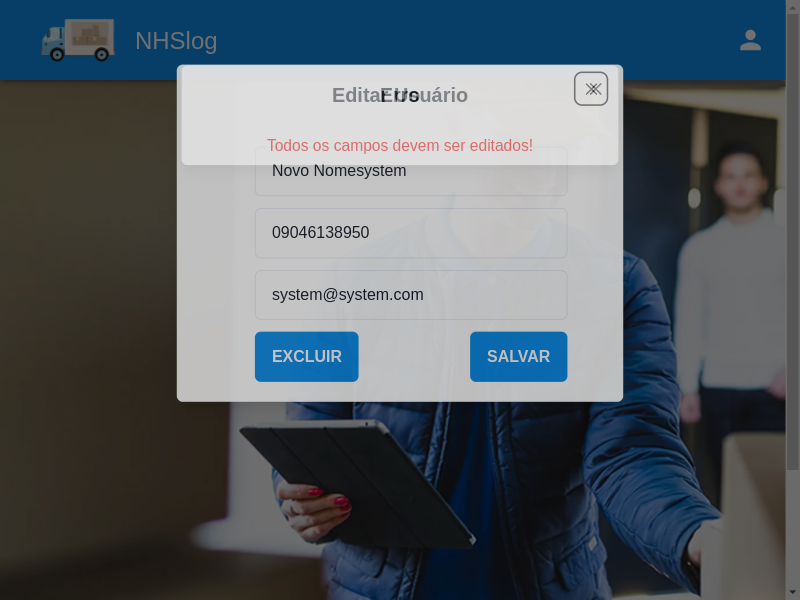
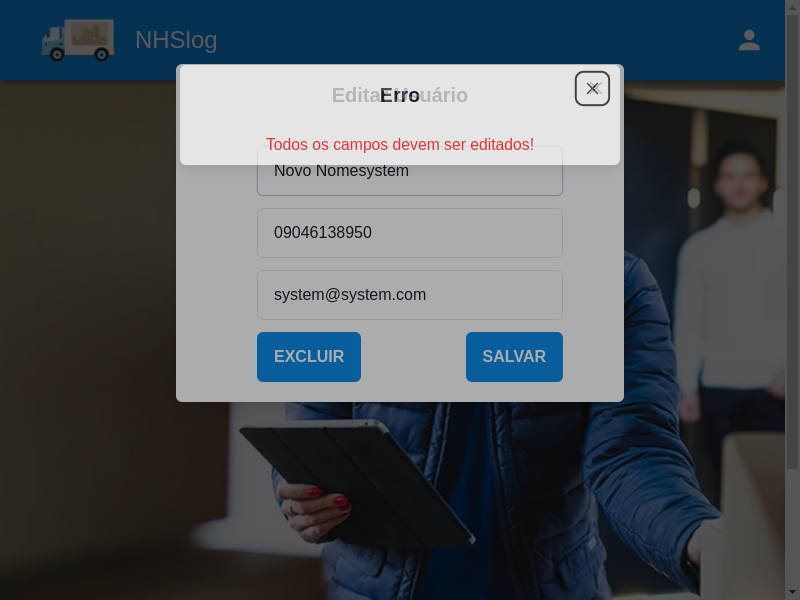
feat(ct-38): add ct-38 and made changes to ct-41

diff --git a/packages/web/src/test/rt-17/ct-38.test.ts b/packages/web/src/test/rt-17/ct-38.test.ts
@@ -1,0 +1,52 @@
+//@ts-nocheck
+import * as dotenv from "dotenv";
+dotenv.config();
+
+import puppeteer from "puppeteer";
+
+describe("CT-38", () => {
+    let browser;
+    let page;
+
+    beforeAll(async () => {
+        browser = await puppeteer.launch({ headless: false });
+        page = await browser.newPage();
+        await page.goto(`${process.env.IP_FOR_TESTS}/admin`);
+
+        await page.evaluate(() => {
+            localStorage.setItem('adminId', '1');
+        });
+
+        await page.reload();
+    });
+
+    afterAll(async () => {
+        await page.evaluate(() => {
+            localStorage.setItem('adminId', null);
+        });
+        await browser.close();
+    });
+
+    describe("GIVEN an existing user to edit", () => {
+        it("SHOULD attempt to save with an empty name field and display an error", async () => {
+
+            await page.waitForSelector('.user-actions-button');
+            await page.click('.user-actions-button'); 
+
+            await page.waitForSelector('.custom-modal-content');
+
+            // Clear the userName field
+            await page.evaluate(() => {
+                document.querySelector('input[name="userName"]').value = '';
+            });
+
+            // Attempt to save the changes
+            await page.click('button[data-testid="save-button"]');
+
+            // Wait for error modal to appear
+            await page.waitForSelector('.chakra-modal__body');
+
+            await page.click('.chakra-modal__close-btn');
+        }, 20000);
+    });
+});

diff --git a/packages/web/src/test/rt-19/ct-41.test.ts b/packages/web/src/test/rt-19/ct-41.test.ts
@@ -27,8 +27,6 @@ describe("CT-41", () => {
             
             expect(selectElement).not.toBeNull();
 
-            console.log("Campo de seleção de tipo de remessa encontrado.");
-
             const expectedOptions = [
                 'Documentos',
                 'Eletrônicos',
@@ -45,16 +43,12 @@ describe("CT-41", () => {
 
             expect(cleanedOptions).toEqual(expectedOptions);
 
-            console.log("Opções de tipo de remessa verificadas.");
-
             for (const option of expectedOptions) {
                 await page.select('select[name="remittanceType"]', option);
 
                 const selectedOption = await page.$eval('select[name="remittanceType"]', el => el.value);
                 expect(selectedOption).toBe(option);
             }
-
-            console.log("Seleção de tipo de remessa validada.");
 
             await page.screenshot({ path: 'verificou-select-tipo-remessa.png' });
 
